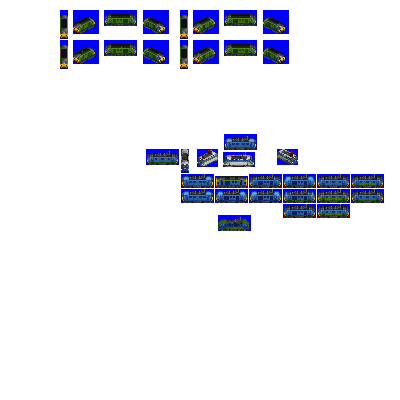
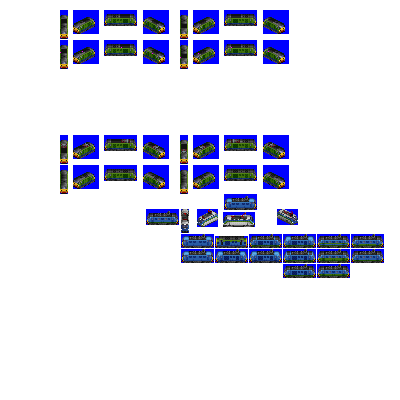
Change: sprites complete for Revolution

diff --git a/src/vehicles/revolution.py b/src/vehicles/revolution.py
@@ -12,7 +12,7 @@ def main(roster):
                             random_reverse=True,
                             pantograph_type='z-shaped-single',
                             gen=6,
-                            sprites_complete=False)
+                            sprites_complete=True)
 
     consist.add_unit(type=ElectroDieselEngineUnit,
                      weight=86,
